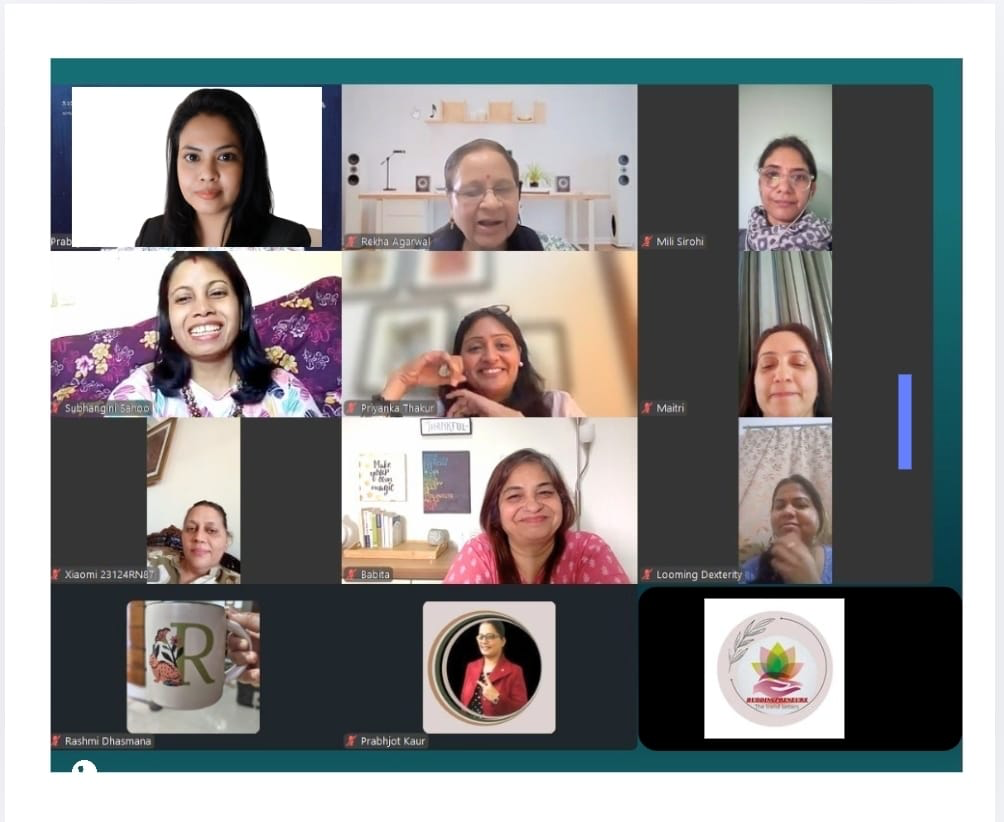
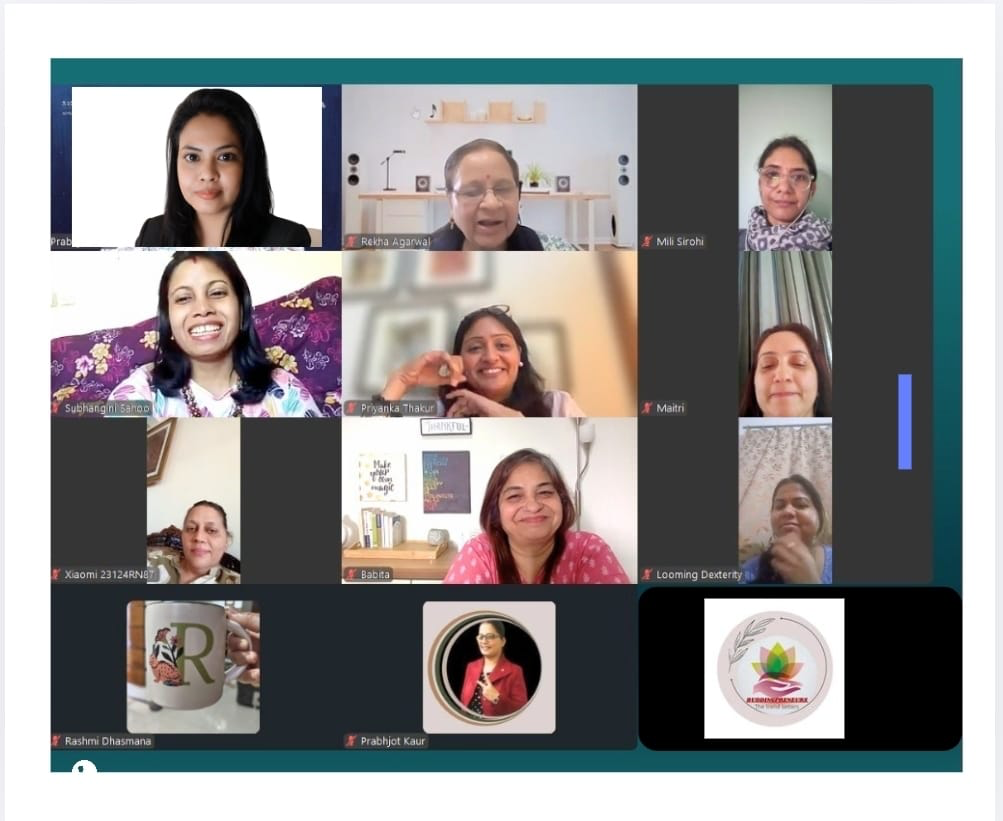
Update networking gallery to only use net4 and net5 and fix image cropping

diff --git a/buddingpreneurs-app/src/app/community/page.tsx b/buddingpreneurs-app/src/app/community/page.tsx
@@ -216,18 +216,12 @@ export default function CommunityPage() {
             <p className="text-[#C9540A] font-bold tracking-widest uppercase text-sm mb-12">
               From Idea to Income: Empowering Women Through Startup Support
             </p>
-            <div className="grid grid-cols-2 md:grid-cols-4 gap-4">
-              <div className="aspect-[4/3] relative rounded-2xl overflow-hidden shadow-lg border border-[#E8E4DF]">
-                <Image src="/images/community/net1.png" alt="Networking Meet 1" fill className="object-cover hover:scale-105 transition-transform duration-500" />
+            <div className="grid grid-cols-1 md:grid-cols-2 gap-8 max-w-5xl mx-auto">
+              <div className="relative rounded-2xl overflow-hidden shadow-lg border border-[#E8E4DF] bg-black">
+                <Image src="/images/community/net4.png" alt="Networking Meet 4" width={1200} height={800} className="w-full h-auto object-contain hover:scale-105 transition-transform duration-500" />
               </div>
-              <div className="aspect-[4/3] relative rounded-2xl overflow-hidden shadow-lg border border-[#E8E4DF]">
-                <Image src="/images/community/net2.png" alt="Networking Meet 2" fill className="object-cover hover:scale-105 transition-transform duration-500" />
-              </div>
-              <div className="aspect-[4/3] relative rounded-2xl overflow-hidden shadow-lg border border-[#E8E4DF]">
-                <Image src="/images/community/NET3.png" alt="Networking Meet 3" fill className="object-cover hover:scale-105 transition-transform duration-500" />
-              </div>
-              <div className="aspect-[4/3] relative rounded-2xl overflow-hidden shadow-lg border border-[#E8E4DF]">
-                <Image src="/images/community/net4.png" alt="Networking Meet 4" fill className="object-cover hover:scale-105 transition-transform duration-500" />
+              <div className="relative rounded-2xl overflow-hidden shadow-lg border border-[#E8E4DF] bg-black">
+                <Image src="/images/community/net5.png" alt="Networking Meet 5" width={1200} height={800} className="w-full h-auto object-contain hover:scale-105 transition-transform duration-500" />
               </div>
             </div>
           </div>

diff --git a/buddingpreneurs-app/crop_img.py b/buddingpreneurs-app/crop_img.py
@@ -1,0 +1,23 @@
+from PIL import Image
+import numpy as np
+import sys
+
+img = Image.open(sys.argv[1]).convert('RGB')
+arr = np.array(img)
+# Calculate row-wise sum of brightness
+# threshold to find non-black rows
+row_max = arr.max(axis=(1,2))
+col_max = arr.max(axis=(0,2))
+
+# Find first and last row where max pixel value > 30 (to ignore noise)
+rows = np.where(row_max > 30)[0]
+cols = np.where(col_max > 30)[0]
+
+if len(rows) > 0 and len(cols) > 0:
+    top, bottom = rows[0], rows[-1]
+    left, right = cols[0], cols[-1]
+    cropped = img.crop((left, top, right, bottom))
+    cropped.save(sys.argv[1])
+    print(f"Cropped to {right-left}x{bottom-top}")
+else:
+    print("No content found")

diff --git a/buddingpreneurs-app/check_img.py b/buddingpreneurs-app/check_img.py
@@ -1,0 +1,17 @@
+from PIL import Image
+import sys
+
+img = Image.open(sys.argv[1])
+bg = Image.new(img.mode, img.size, img.getpixel((0,0)))
+diff = Image.composite(img, bg, img.convert("L")) if img.mode == 'RGBA' else Image.new("L", img.size, 0)
+# Actually, an easier way is Image.getbbox() if we convert black to transparent
+img = img.convert("RGB")
+# create mask of non-black pixels (threshold > 10)
+mask = img.point(lambda p: p > 10 and 255)
+# to single channel
+mask = mask.convert("L")
+bbox = mask.getbbox()
+print(f"Original size: {img.size}")
+print(f"Content bbox: {bbox}")
+if bbox:
+    print(f"Content size: {bbox[2]-bbox[0]}x{bbox[3]-bbox[1]}")

diff --git a/buddingpreneurs-app/check_hist.py b/buddingpreneurs-app/check_hist.py
@@ -1,0 +1,10 @@
+from PIL import Image
+import numpy as np
+import sys
+
+img = Image.open(sys.argv[1]).convert('RGB')
+arr = np.array(img)
+row_max = arr.max(axis=(1,2))
+
+print(f"Row max values top 20: {row_max[:20]}")
+print(f"Row max values bottom 20: {row_max[-20:]}")
